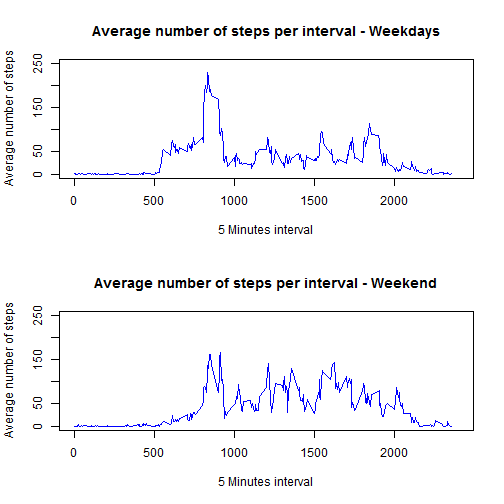
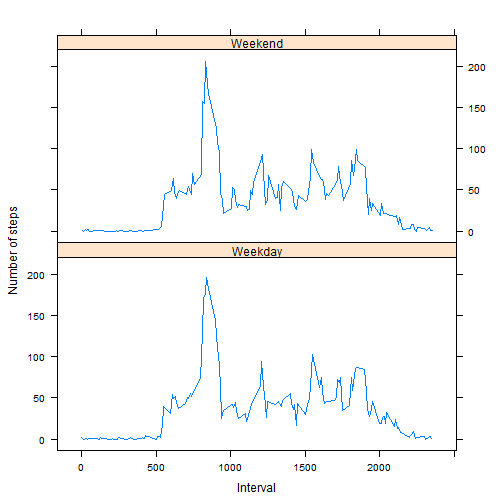
Assignment1

diff --git a/PA1_templaet.html b/PA1_templaet.html
@@ -450,24 +450,13 @@ detach(fdataSet)
 <li> The following code makes a panel plot containing a time series plot (i.e.  type = &ldquo;l&rdquo; ) of the 5-minute interval (x-axis) and the average number of steps taken, averaged across all weekday days or weekend days (y-axis).<br/></li>
 </ol>
 
-<pre><code class="r">## Calculate Steps per interval for Weekdays
-wdstepsPerInterval &lt;- sqldf(&quot;select avg(steps) as avgSteps, interval from fdataSet where weekdays=\&quot;weekday\&quot; group by interval&quot;)
-
-westepsPerInterval &lt;- sqldf(&quot;select avg(steps) as avgSteps, interval from fdataSet where weekdays=\&quot;weekend\&quot; group by interval&quot;)
-
-## Plot - panel plot
-par(mfcol = c(2, 1))
-
-plot(wdstepsPerInterval$interval, wdstepsPerInterval$avgSteps, type = &quot;l&quot;, col = &quot;blue&quot;, 
-    xlab = &quot;5 Minutes interval&quot;, ylab = &quot;Average number of steps&quot;, main = &quot;Average number of steps per interval - Weekdays&quot;, 
-    ylim = range(0:250), xlim = range(0:2400))
-
-plot(westepsPerInterval$interval, westepsPerInterval$avgSteps, type = &quot;l&quot;, col = &quot;blue&quot;, 
-    xlab = &quot;5 Minutes interval&quot;, ylab = &quot;Average number of steps&quot;, main = &quot;Average number of steps per interval - Weekend&quot;, 
-    ylim = range(0:250), xlim = range(0:2400))
+<pre><code class="r">library(lattice)
+stepsPerInterval &lt;- sqldf(&quot;select avg(steps) as avgSteps, interval from fdataSet group by interval&quot;)
+xyplot(stepsPerInterval$avgSteps ~ stepsPerInterval$interval | c(&quot;Weekday&quot;, 
+    &quot;Weekend&quot;), type = &quot;l&quot;, layout = c(1, 2), xlab = &quot;Interval&quot;, ylab = &quot;Number of steps&quot;)
 </code></pre>
 
[2 lines of base64/hex data omitted]
 
 </body>
 

diff --git a/PA1_templaet.md b/PA1_templaet.md
@@ -7,6 +7,7 @@ This is an R Markdown document prepared for Re-Producible Research Assignment1. 
 This section of R code loads the data into dataSet then presents first 20 records as data sample.
 
 
+
 ```r
 dataSet <- read.csv("activity.csv")
 head(dataSet, 20)
@@ -307,21 +308,10 @@ detach(fdataSet)
 
 
 ```r
-## Calculate Steps per interval for Weekdays
-wdstepsPerInterval <- sqldf("select avg(steps) as avgSteps, interval from fdataSet where weekdays=\"weekday\" group by interval")
-
-westepsPerInterval <- sqldf("select avg(steps) as avgSteps, interval from fdataSet where weekdays=\"weekend\" group by interval")
-
-## Plot - panel plot
-par(mfcol = c(2, 1))
-
-plot(wdstepsPerInterval$interval, wdstepsPerInterval$avgSteps, type = "l", col = "blue", 
-    xlab = "5 Minutes interval", ylab = "Average number of steps", main = "Average number of steps per interval - Weekdays", 
-    ylim = range(0:250), xlim = range(0:2400))
-
-plot(westepsPerInterval$interval, westepsPerInterval$avgSteps, type = "l", col = "blue", 
-    xlab = "5 Minutes interval", ylab = "Average number of steps", main = "Average number of steps per interval - Weekend", 
-    ylim = range(0:250), xlim = range(0:2400))
+library(lattice)
+stepsPerInterval <- sqldf("select avg(steps) as avgSteps, interval from fdataSet group by interval")
+xyplot(stepsPerInterval$avgSteps ~ stepsPerInterval$interval | c("Weekday", 
+    "Weekend"), type = "l", layout = c(1, 2), xlab = "Interval", ylab = "Number of steps")
 ```
 
 ![plot of chunk unnamed-chunk-12](figure/unnamed-chunk-12.png) 
